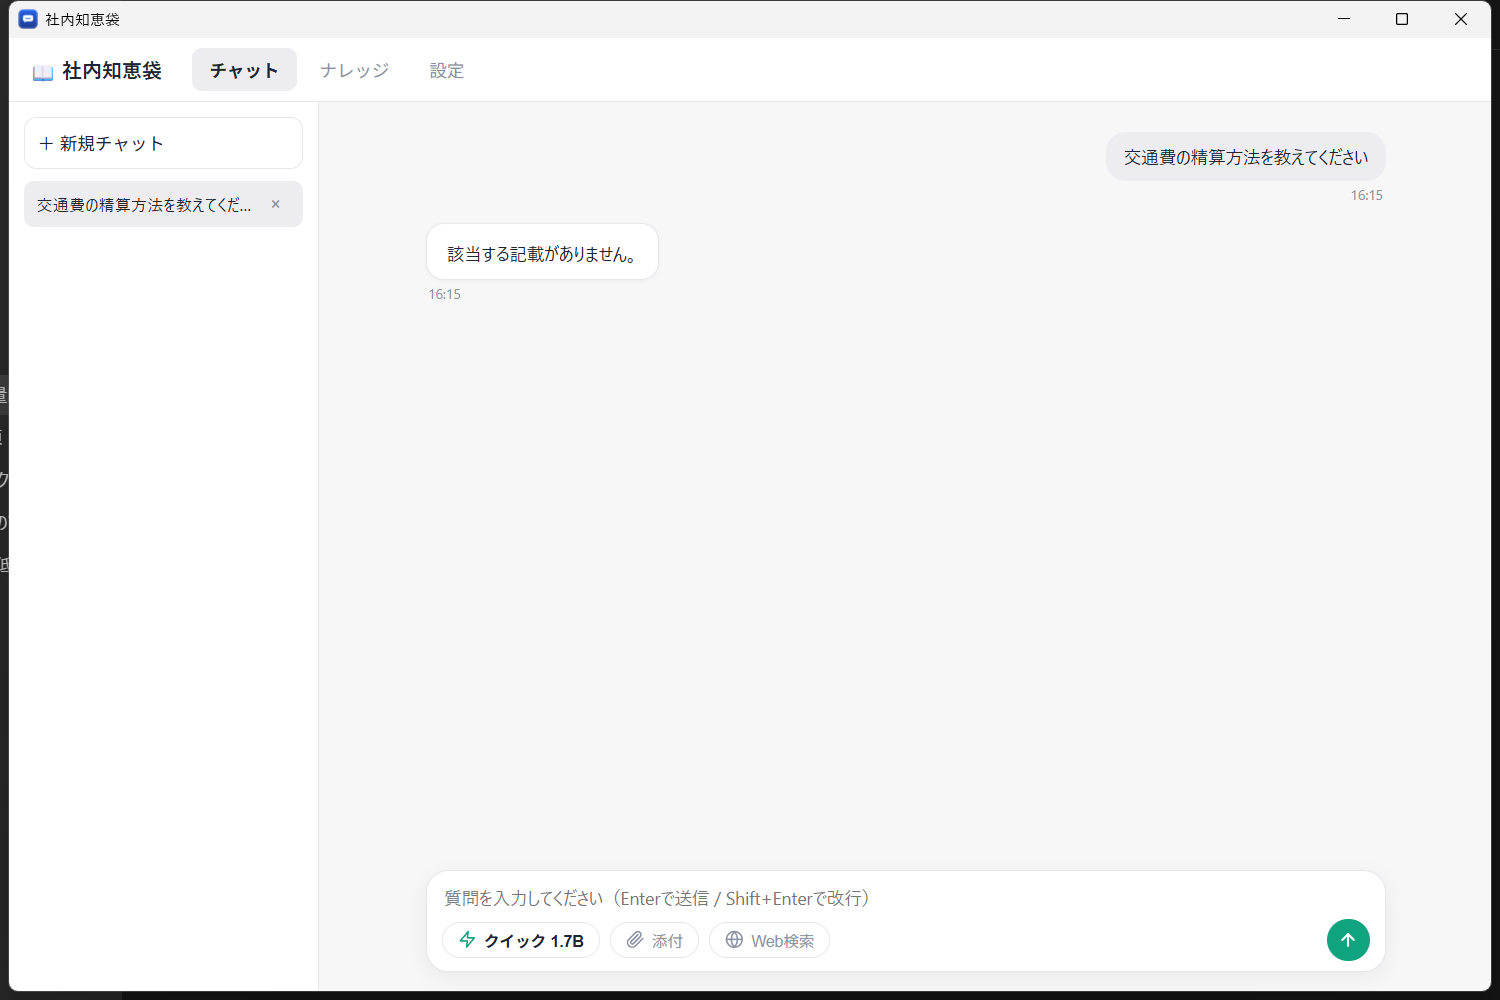
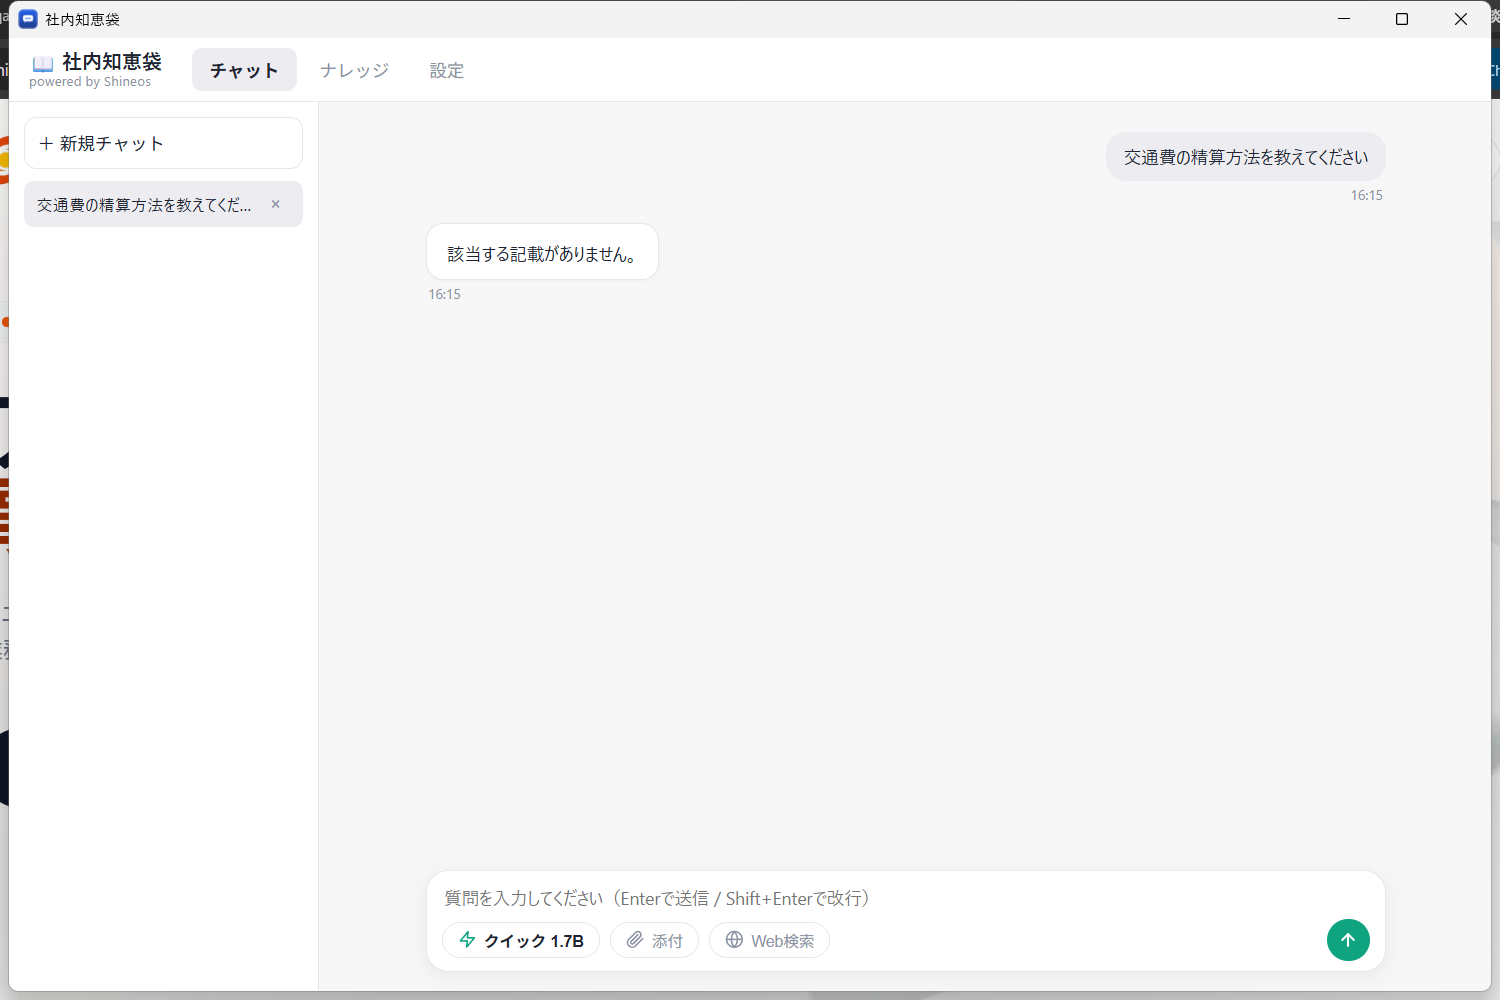
v2: powered-by-Shineos link under the brand name
- header brand shows a small gray 'powered by Shineos' line linking to https://shineos.com/

- WebView2 shell opens that link in the default browser (whitelisted constant URL via ShellExecute); other target=_blank links keep default WebView2 behavior

- verified on the real machine: link renders under the brand and the click opens shineos.com in the default browser; all four README screenshots retaken

Changed region(s): [[0.0, 0.0, 1.0, 1.0], [0.0, 0.031, 0.1227, 0.744]]

diff --git a/app/ShineosQA.Web/src/styles.css b/app/ShineosQA.Web/src/styles.css
@@ -16,7 +16,10 @@ body { font-family: "Segoe UI", "Hiragino Sans", "Yu Gothic UI", Meiryo, sans-se
 
 /* ── ヘッダー ───────────────────────── */
 .topbar { display: flex; align-items: center; gap: 24px; padding: 8px 16px; background: var(--panel); border-bottom: 1px solid var(--border); }
-.brand { font-weight: 700; font-size: 16px; }
+.brand { display: flex; flex-direction: column; line-height: 1.2; }
+.brand-name { font-weight: 700; font-size: 16px; }
+.brand-sub { font-size: 10.5px; color: var(--muted); font-weight: 400; text-decoration: none; letter-spacing: .02em; }
+.brand-sub:hover { text-decoration: underline; }
 .tabs { display: flex; gap: 4px; }
 .tab { border: none; background: transparent; padding: 7px 14px; border-radius: 8px; cursor: pointer; font-size: 14px; color: var(--muted); }
 .tab:hover { background: var(--hover); }

diff --git a/app/ShineosQA.Web/index.html b/app/ShineosQA.Web/index.html
@@ -9,7 +9,7 @@
 <body>
   <div id="app">
     <header class="topbar">
-      <div class="brand">📖 社内知恵袋</div>
+      <div class="brand"><span class="brand-name">📖 社内知恵袋</span><a class="brand-sub" href="https://shineos.com" target="_blank" rel="noopener">powered by Shineos</a></div>
       <nav class="tabs">
         <button data-tab="chat" class="tab active">チャット</button>
         <button data-tab="knowledge" class="tab">ナレッジ</button>

diff --git a/app/ShineosQA.App/MainWindowV2.cs b/app/ShineosQA.App/MainWindowV2.cs
@@ -349,6 +349,15 @@ namespace ShineosQA
         [DllImport("iphlpapi.dll", SetLastError = true)]
         static extern uint GetExtendedTcpTable(IntPtr tcpTable, ref int tableSize, bool order, int ipVersion, int tableClass, int reserved);
 
+        // URLを既定のブラウザで開くWin32 API（引数は定数のみを渡す）
+        [DllImport("shell32.dll", CharSet = CharSet.Unicode)]
+        static extern IntPtr ShellExecute(IntPtr hwnd, string verb, string file, string parameters, string directory, int showCmd);
+
+        void OpenInDefaultBrowser()
+        {
+            ShellExecute(IntPtr.Zero, "open", "https://shineos.com/", null, null, 5 /* SW_SHOW */);
+        }
+
         bool WaitForHealth(int timeoutSeconds)
         {
             var deadline = DateTime.UtcNow.AddSeconds(timeoutSeconds);
@@ -403,6 +412,22 @@ namespace ShineosQA
             {
                 var wvEnv = await CoreWebView2Environment.CreateAsync(null, wvDataDir);
                 await webView.EnsureCoreWebView2Async(wvEnv);
+                // ヘッダーの「powered by Shineos」リンクは既定のブラウザで開く。
+                // 開けるURLは定数の公式サイトのみ（ページ側からの差し込みは受け付けない）。
+                // ホワイトリスト外の target=_blank は WebView2 既定の挙動に任せる
+                webView.CoreWebView2.NewWindowRequested += (s, e) =>
+                {
+                    try
+                    {
+                        string host = new Uri(e.Uri).Host;
+                        if (host == "shineos.com" || host == "www.shineos.com")
+                        {
+                            e.Handled = true;
+                            OpenInDefaultBrowser();
+                        }
+                    }
+                    catch (Exception ex) { Log("open external link failed: " + ex.Message); }
+                };
             }
             catch (Exception ex)
             {

diff --git a/CHANGELOG.md b/CHANGELOG.md
@@ -22,6 +22,7 @@ v1（Ollama + Open WebUI）を廃止し、**llama.cpp（llama-server）を直接
 - **アンインストール時のデータ取り扱い**: 対話時はナレッジ・チャット履歴（`data`）の削除確認を表示。サイレント時はデータを残す（本体は完全削除）
 - **モデルメニューのアイコン修正**: 標準モデルの行アイコンが同心円（読み込み中スピナーと紛らわしい）だったのを十字線付き照準型に変更。送信フォームのモデルボタン内アイコンも選択階級（⚡/🎯/🏆）に連動して切り替わるように
 - **UIからバージョン表記（v2）を削除**: ヘッダーのブランド名は「📖 社内知恵袋」のみに（ユーザーには無関係な情報のため。READMEのスクリーンショット4枚も新しい画面で撮り直し）
+- **ヘッダーに「powered by Shineos」リンクを追加**: ブランド名の下に灰色の小文字で表示し、クリックすると既定のブラウザで https://shineos.com/ を開く（開けるURLは公式サイトの定数のみに制限。READMEのスクリーンショット4枚も再撮影）
 
 ### v1.0.78 — ナレッジ即時反映・障害調査性向上・XXE防御の強化（v1系最終版）
 
